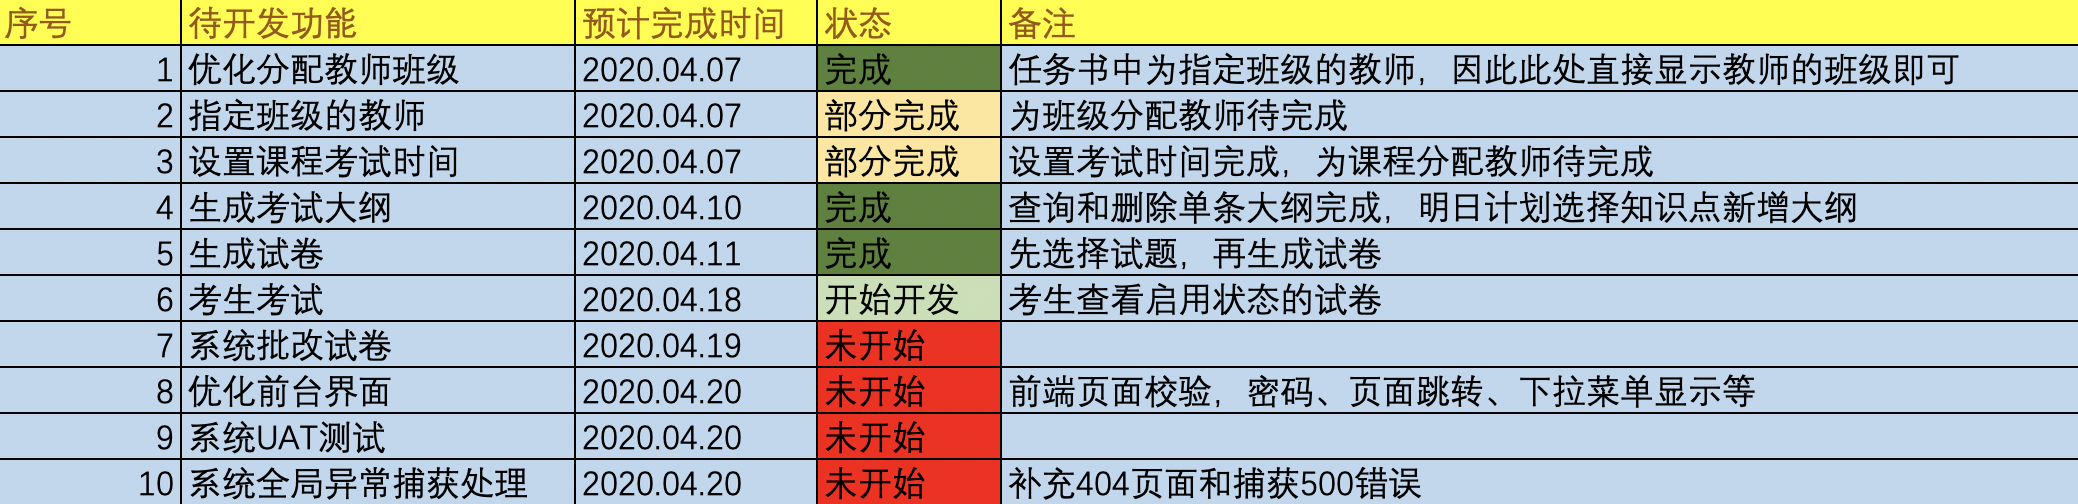
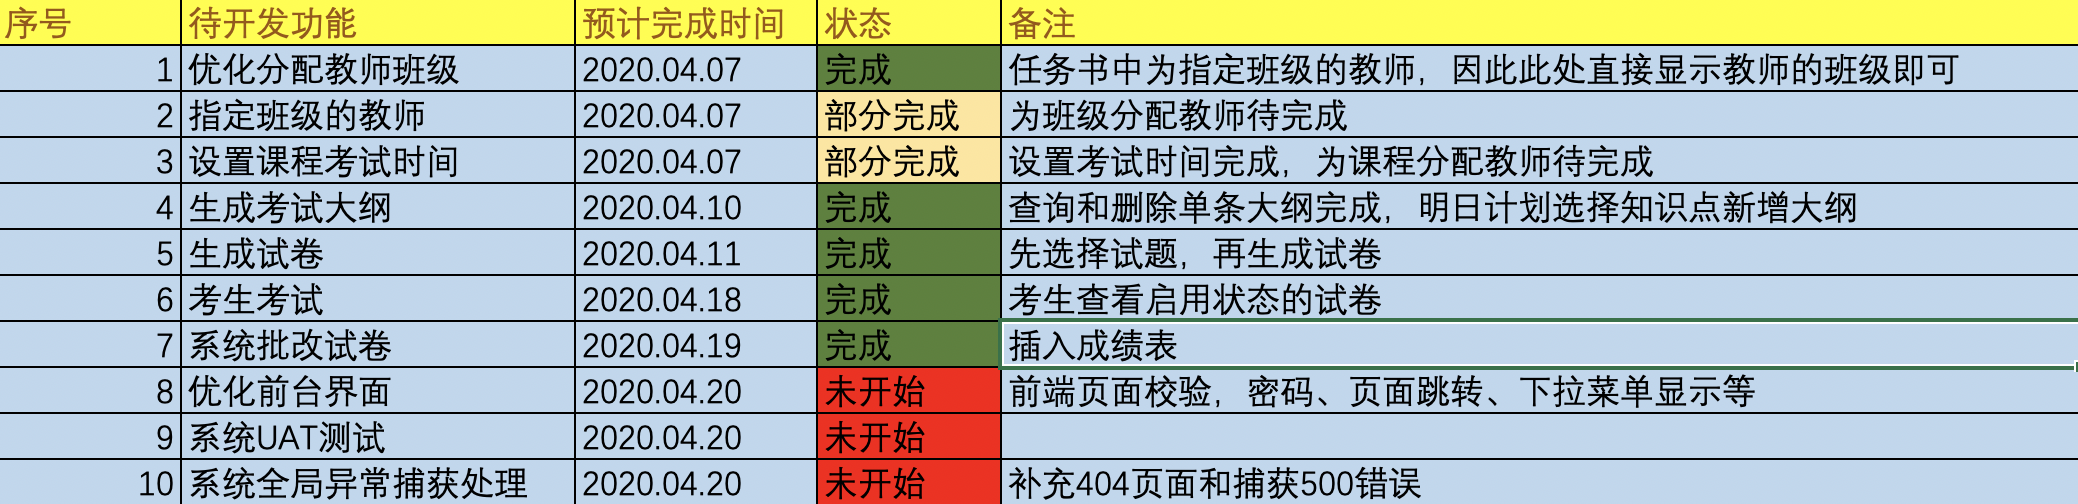
核心功能学生进行考试完成，系统批改试卷完成

Changed region(s): [[0.3696, 0.5357, 1.0, 0.744]]

diff --git a/exam_management/src/main/java/com/jinqi/exam/controller/StudentController.java b/exam_management/src/main/java/com/jinqi/exam/controller/StudentController.java
@@ -1,15 +1,11 @@
 package com.jinqi.exam.controller;
 
 import com.github.pagehelper.PageInfo;
-import com.jinqi.exam.entity.Score;
-import com.jinqi.exam.entity.Student;
-import com.jinqi.exam.entity.TestPaper;
+import com.jinqi.exam.entity.*;
 import com.jinqi.exam.exception.DuplicateEmailException;
 import com.jinqi.exam.exception.StudentDisableException;
 import com.jinqi.exam.exception.StudentNotFoundException;
-import com.jinqi.exam.service.ScoreService;
-import com.jinqi.exam.service.StudentService;
-import com.jinqi.exam.service.TestPaperService;
+import com.jinqi.exam.service.*;
 import org.springframework.beans.factory.annotation.Autowired;
 import org.springframework.stereotype.Controller;
 import org.springframework.ui.Model;
@@ -19,6 +15,7 @@ import org.springframework.web.bind.annotation.RequestMapping;
 import org.springframework.web.bind.annotation.RequestParam;
 import org.springframework.web.servlet.ModelAndView;
 
+import javax.servlet.http.HttpServletRequest;
 import javax.servlet.http.HttpSession;
 import java.util.List;
 import java.util.Map;
@@ -35,6 +32,15 @@ public class StudentController {
 
     @Autowired
     private TestPaperService testPaperService;
+
+    @Autowired
+    private ExaminationTestPaperService examinationTestPaperService;
+
+    @Autowired
+    private ExaminationQuestionsService examinationQuestionsService;
+
+    @Autowired
+    private ExaminationSyllabusService examinationSyllabusService;
 
     /**
      * 跳转注册页面
@@ -191,5 +197,62 @@ public class StudentController {
         PageInfo pageInfo = new PageInfo(testPaperList);
         map.put("testPapers",pageInfo);
         return "student/test-paper";
+    }
+
+    /**
+     * 学生进入考试
+     * @param testPaperId
+     * @return
+     */
+    @RequestMapping("/checked/showTestPaperDtl.do")
+    public String showTestPaperDtl(Integer testPaperId,Map map,Integer examinationSyllabusId,HttpSession session){
+        List<ExaminationTestPaper> examinationTestPapers = examinationTestPaperService.getByTestPaperId(testPaperId);
+        map.put("examinationTestPapers",examinationTestPapers);
+        session.setAttribute("examinationSyllabusId",examinationSyllabusId);
+        return "student/test-paper-process";
+    }
+
+    /**
+     * 学生提交试卷
+     * @return
+     */
+    @RequestMapping("/checked/checkAnswer.do")
+    public String checkAnswer(HttpServletRequest request,HttpSession session) {
+        //暂时为三题
+        String examinationSelect1 = request.getParameter("examinationSelect1");
+        String[] split1 = examinationSelect1.split("");
+        String examinationSelect2 = request.getParameter("examinationSelect2");
+        String[] split2 = examinationSelect2.split("");
+        String examinationSelect3 = request.getParameter("examinationSelect3");
+        String[] split3 = examinationSelect3.split("");
+        //初始化分数，一题答对加10分
+        Integer score = 0;
+        Integer result1 = examinationQuestionsService.checkAnswer(Integer.parseInt(split1[0]), split1[2]);
+        if (result1 == 1){
+            score+=10;
+        }
+        Integer result2 = examinationQuestionsService.checkAnswer(Integer.parseInt(split2[0]), split2[2]);
+        if (result2 == 1){
+            score+=10;
+        }
+        Integer result3 = examinationQuestionsService.checkAnswer(Integer.parseInt(split3[0]), split3[2]);
+        if (result3 == 1){
+            score+=10;
+        }
+        //获得session中存放的大纲id
+        Integer examinationSyllabusId = (Integer) session.getAttribute("examinationSyllabusId");
+        //利用大纲id查询对应的课程id
+        List<ExaminationSyllabus> examinationSyllabus =
+                examinationSyllabusService.getExaminationSyllabus(examinationSyllabusId);
+        ExaminationSyllabus examinationSyllabus1 = examinationSyllabus.get(0);
+        Student stu = (Student) session.getAttribute("stu");
+        Score scoreReal = new Score();
+        scoreReal.setCourseId(examinationSyllabus1.getCourseId());
+        scoreReal.setScoreNumber(score);
+        scoreReal.setStudentId(stu.getStudentId());
+        scoreService.createScore(scoreReal);
+        //移除session中存放的大纲id
+        session.removeAttribute("examinationSyllabusId");
+        return "redirect:/student/checked/showTestPaper.do?page=1&size=6";
     }
 }

diff --git a/exam_management/src/main/java/com/jinqi/exam/service/impl/ExaminationQuestionsServiceImpl.java b/exam_management/src/main/java/com/jinqi/exam/service/impl/ExaminationQuestionsServiceImpl.java
@@ -21,4 +21,15 @@ public class ExaminationQuestionsServiceImpl implements ExaminationQuestionsServ
     public List<ExaminationQuestions> getAll() {
         return examinationQuestionsMapper.selectAll();
     }
+
+    @Override
+    public Integer checkAnswer(Integer examinationQuestionsId,String examinationQuestionAnswer) {
+        ExaminationQuestions examinationQuestions =
+                examinationQuestionsMapper.selectByPrimaryKey(examinationQuestionsId);
+        if (examinationQuestionAnswer.equals(examinationQuestions.getExaminationQuestionsAnswer())){
+            return 1;
+        }else {
+            return 2;
+        }
+    }
 }

diff --git a/exam_management/src/main/java/com/jinqi/exam/service/impl/ScoreServiceImpl.java b/exam_management/src/main/java/com/jinqi/exam/service/impl/ScoreServiceImpl.java
@@ -34,4 +34,9 @@ public class ScoreServiceImpl implements ScoreService {
     public List<Score> getScores(Integer courseId) {
         return scoreMapper.selectByCourseId(courseId);
     }
+
+    @Override
+    public Integer createScore(Score score) {
+        return scoreMapper.insertSelective(score);
+    }
 }

diff --git a/exam_management/src/main/java/com/jinqi/exam/service/ExaminationQuestionsService.java b/exam_management/src/main/java/com/jinqi/exam/service/ExaminationQuestionsService.java
@@ -7,4 +7,6 @@ import java.util.List;
 public interface ExaminationQuestionsService {
 
     List<ExaminationQuestions> getAll();
+
+    Integer checkAnswer(Integer examinationQuestionsId,String examinationQuestionAnswer);
 }

diff --git a/exam_management/src/main/java/com/jinqi/exam/service/ScoreService.java b/exam_management/src/main/java/com/jinqi/exam/service/ScoreService.java
@@ -13,4 +13,6 @@ public interface ScoreService {
     List<Score> getScore(Integer studentId);
 
     List<Score> getScores(Integer courseId);
+
+    Integer createScore(Score score);
 }
